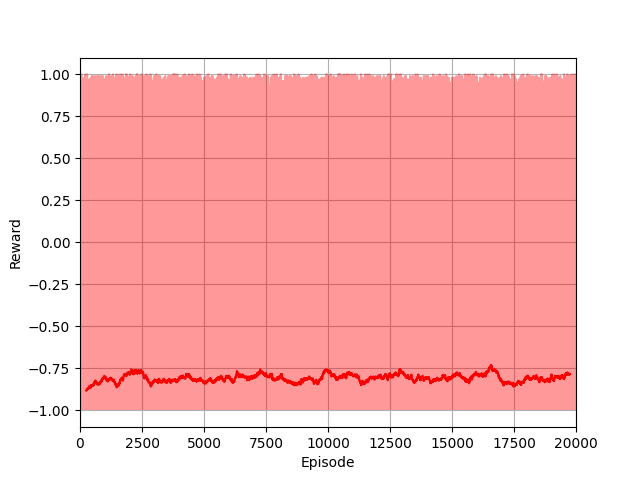
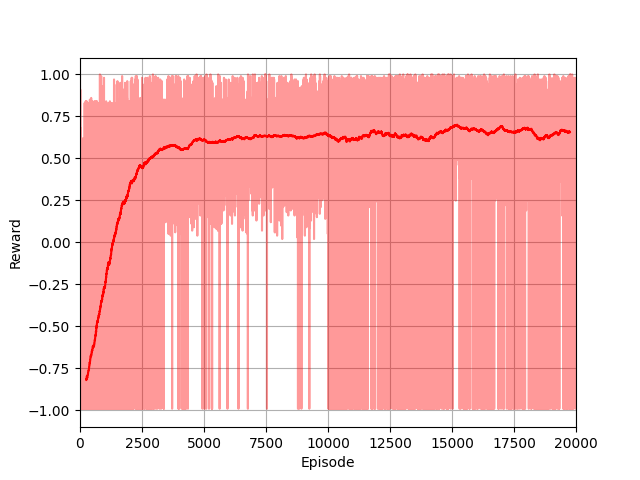
mountain_car trained (vec_size = 6)

diff --git a/RL/mountain_car/Alex/actor_critic.py b/RL/mountain_car/Alex/actor_critic.py
@@ -2,17 +2,20 @@ import pickle
 import numpy as np
 from tqdm import tqdm
 
+NUM_GRIDPOINTS = 6
+VEC_SIZE = NUM_GRIDPOINTS**2
+
 class ActorCriticAgent():
 
-    def __init__(self, env, action_spread = 0.4, lambdaIn = 0.9):
+    def __init__(self, env, action_spread = 0.5, lambdaIn = 0.9):
 
         self.env = env
         self.count = 0
-        self.theta = np.random.normal(0,0.1,(64))
-        self.w =np.random.normal(0,0.1,(64))
+        self.theta = np.random.normal(0,0.1,(VEC_SIZE))
+        self.w =np.random.normal(0,0.1,(VEC_SIZE))
         self.action_sigma = action_spread
 
-        self.visitCounterVector = np.zeros((64))
+        self.visitCounterVector = np.zeros((VEC_SIZE))
 
         self._lambda = lambdaIn
 
@@ -21,16 +24,16 @@ class ActorCriticAgent():
     
     def initRBFReferenceVectors(self):
 
-        rbf_xpositions = [-1,-0.8,-0.6,-0.4,-0.2,0,0.2,0.4]
-        rbf_velocities = np.linspace(-1.2, 1.2, 8)
+        rbf_xpositions = np.linspace(-1.2, 0.5, NUM_GRIDPOINTS)
+        rbf_velocities = np.linspace(-1.2, 1.2, NUM_GRIDPOINTS)
 
-        self.xposRBFVector = np.concatenate([[rbf_xpos for i in range(8)] for rbf_xpos in rbf_xpositions])
-        self.velRBFVector = np.concatenate([[rbf_vel for rbf_vel in rbf_velocities] for i in range(8)])
+        self.xposRBFVector = np.concatenate([[rbf_xpos for i in range(NUM_GRIDPOINTS)] for rbf_xpos in rbf_xpositions])
+        self.velRBFVector = np.concatenate([[rbf_vel for rbf_vel in rbf_velocities] for i in range(NUM_GRIDPOINTS)])
 
     def initEligibilityTraces(self):
 
-        self.actorEligibilityTrace = np.zeros((64))
-        self.criticEligibilityTrace = np.zeros((64))
+        self.actorEligibilityTrace = np.zeros((VEC_SIZE))
+        self.criticEligibilityTrace = np.zeros((VEC_SIZE))
 
     def getAction(self):
         # evaluate the policy (actor):
@@ -49,9 +52,9 @@ class ActorCriticAgent():
     def generateFeatureVector(self, state):
         position, velocity = state
 
-        sig_pos = 2*0.1**2
-        xposVector = np.ones((64))*position
-        velVector = np.ones((64))*velocity
+        sig_pos = 2*0.2**2
+        xposVector = np.ones((VEC_SIZE))*position
+        velVector = np.ones((VEC_SIZE))*velocity
 
         # featureVector = np.zeros((64))
         # for i,xpos in enumerate(rbf_xpositions):
@@ -67,17 +70,19 @@ class ActorCriticAgent():
     def train(self, numSteps = 100):
         self.historicalReward = []
         for i in tqdm(range(numSteps)):
-            if i == 1000:
-                self.action_sigma = 0.01
+            if i == 10000:
+                self.action_sigma = 0.1
             r = self.runEpisode()
             self.historicalReward.append(r)
         
-    def runEpisode(self):
+    def runEpisode(self, exploringStarts = True):
 
         totReward = 0
         self.initEligibilityTraces()
-
-        state = self.env.reset()
+        if exploringStarts:
+            state = self.env.reset()
+        else:
+            state = self.env.reset(initial_position = 0.5)
         done = False
 
         while not done:

diff --git a/RL/mountain_car/Alex/analysis.py b/RL/mountain_car/Alex/analysis.py
@@ -26,6 +26,9 @@ for (i,x) in enumerate(X):
         Z[i,j] = acAgent.getValueFunction(state)
         meanAction[i,j] = np.dot(acAgent.generateFeatureVector(state), acAgent.theta)
 XM, YM = np.meshgrid(X, Y)  # `plot_surface` expects `x` and `y` data to be 2D
-ha.plot_surface(XM, YM, np.transpose(meanAction))
+ha.plot_surface(XM, YM, np.transpose(Z))
 print(acAgent.theta)
 plt.show()
+
+acAgent.runEpisode(exploringStarts = False)
+acAgent.env.render("./trained_agent_0.gif","gif")

diff --git a/RL/mountain_car/Alex/train.py b/RL/mountain_car/Alex/train.py
@@ -7,7 +7,7 @@ env = MountainCar()
 acAgent = ActorCriticAgent(env, lambdaIn = 0.99)
 
 print(acAgent.generateFeatureVector([-1, -1]))
-acAgent.loadWeights("./weights/debug.pkl")
+#acAgent.loadWeights("./weights/debug.pkl")
 acAgent.train(numSteps=20000)
 
 env.render("./trained_agent.gif","gif")
